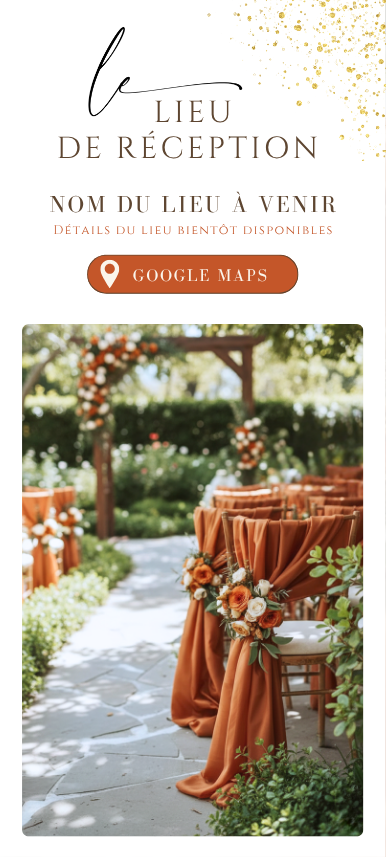
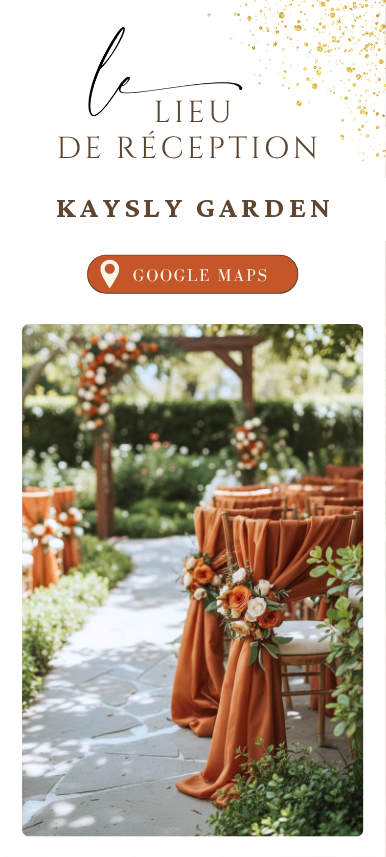
Nom du lieu corrige: Kaysly Garden (au lieu de Nom du lieu a venir); suppression de la section musique

Changed region(s): [[0.1244, 0.2124, 0.8705, 0.273], [0.9948, 0.2124, 1.0, 0.3034]]

diff --git a/app/mariage/[token]/MariageClient.tsx b/app/mariage/[token]/MariageClient.tsx
@@ -291,32 +291,6 @@ export default function MariageClient({ guest }: { guest: GuestV2 }) {
       </Stagger>
       </Reveal>
 
-      {/* MUSIQUE — présentée en carte, cohérente avec le reste */}
-      <Reveal>
-      <section className="w-full max-w-sm mx-auto bg-ivory px-6 py-10 text-center">
-        <Stagger delay={0}>
-          <p className="font-sans text-[0.6rem] tracking-[.3em] uppercase text-rose mb-4">Notre chanson</p>
-        </Stagger>
-        <Stagger delay={200}>
-          <div className="aspect-video overflow-hidden shadow-lg">
-            <iframe
-              className="w-full h-full"
-              src="https://www.youtube.com/embed/t7owFiihXgg"
-              title="You Know My Name - Tasha Cobbs Leonard"
-              allow="accelerometer; autoplay; clipboard-write; encrypted-media; gyroscope; picture-in-picture"
-              allowFullScreen
-            />
-          </div>
-        </Stagger>
-        <Stagger delay={400}>
-          <p className="font-serif italic text-taupe text-sm mt-4">You Know My Name</p>
-        </Stagger>
-        <Stagger delay={550}>
-          <p className="font-sans text-[0.6rem] tracking-[.15em] uppercase text-taupe/70 mt-1">Tasha Cobbs Leonard ft. Jimi Cravity</p>
-        </Stagger>
-      </section>
-      </Reveal>
-
       {/* COMPTE À REBOURS — même largeur de carte que les autres sections */}
       <Reveal>
       <section className="relative w-full max-w-sm mx-auto overflow-hidden">
